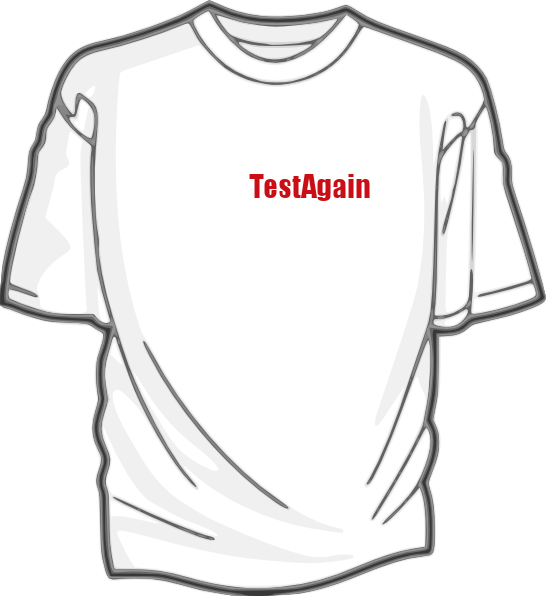
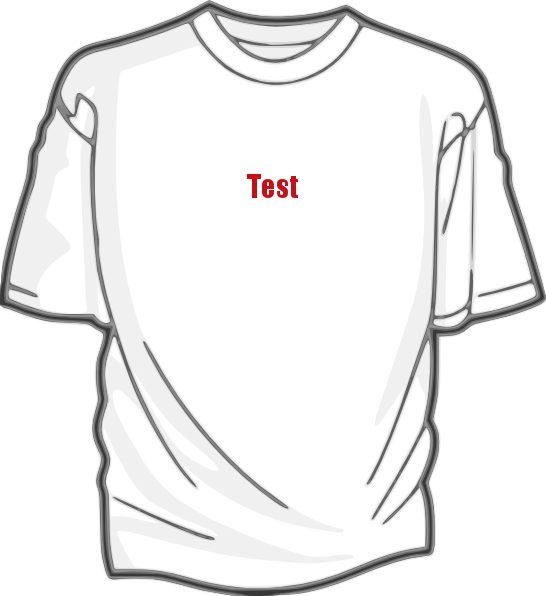
test

Changed region(s): [[0.4359, 0.2718, 0.685, 0.3322]]

diff --git a/app.js b/app.js
@@ -8,8 +8,9 @@ var routes = require('./routes');
 var user = require('./routes/user');
 var http = require('http');
 var path = require('path');
-var twilio = require('twilio');
+var client = require('twilio')('AC8071f4e79c9ec1e28ac712b696634652', 'e13e174fbee885c77d5a039a1d372356');
 var Canvas = require('canvas');
+var fs = require('fs');
 
 var app = express();
 
@@ -31,28 +32,55 @@ if ('development' == app.get('env')) {
 
 app.get('/tee-text', function(req, res) {
 
-	/*var resp = new twilio.TwimlResponse();
-	resp.message('Your message said ' + req.query.Body);
-	res.type('text/xml');
-	res.send(resp.toString());*/
+	var imageName = req.query.From + '.png';
+	var out = fs.createWriteStream(__dirname + '/public/images/' + imageName);
 	var Image = Canvas.Image;
 	var canvas = new Canvas(546, 596);
 	var ctx = canvas.getContext('2d');
 
-	ctx.font = '35px Impact';
-	var te = ctx.measureText('Awesome!Again');
+	// T-shirt text
+	ctx.font = '30px Impact';
+	var te = ctx.measureText(req.query.Body);
 	ctx.fillStyle = '#C90E15';
-	ctx.fillText("Awesome!Again", 273 - 0.5 * te.width, 198);
+	ctx.fillText(req.query.Body, 273 - 0.5 * te.width, 198);
 
+	// T-shirt image template
 	var img = new Image();
-
 	img.onload = function(){
 		ctx.drawImage(img,0,0);
 	};
-
 	img.src = __dirname + '/public/images/blank_tshirt.png';
 
-	res.send('<img src="' + canvas.toDataURL() + '" />');
+	// Convert canvas to .png
+	var stream = canvas.pngStream();
+
+	stream.on('data', function(chunk){
+		out.write(chunk);
+	});
+
+	stream.on('end', function(){
+
+		res.end();
+		/*client.messages.create({
+
+			body: "Quote: $15 | Check out the design http://glacial-headland-8432.herokuapp.com/images/" + imageName,
+			to: req.query.From,
+			from: req.query.To
+
+		},
+		function(err, message) {
+
+			if(err)
+				console.log(err);
+			else
+			{
+				res.type('text/xml');
+				res.send(message);
+			}
+
+		});*/
+
+	});
 
 });
 
